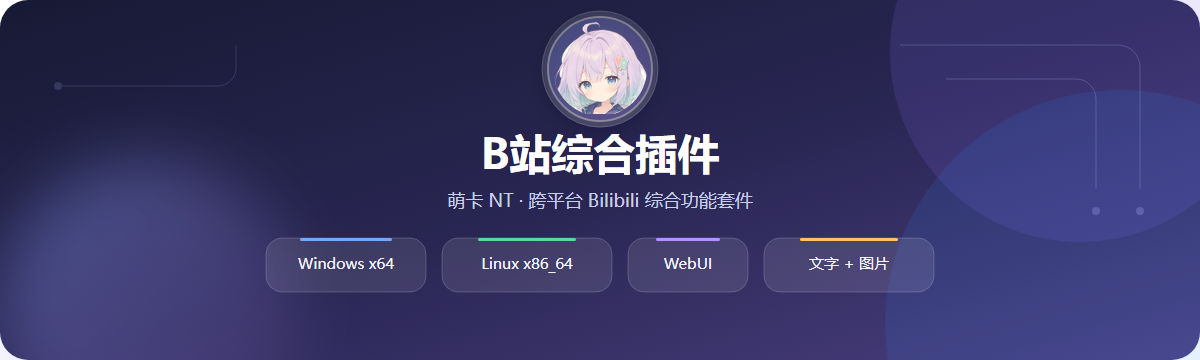
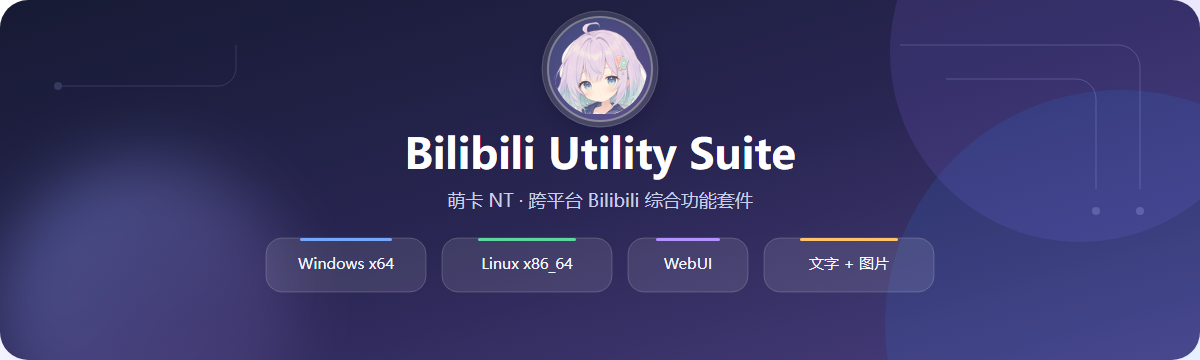
release: migrate Bilibili Utility Suite to GitHub 1.3.4

Changed region(s): [[0.3392, 0.3667, 0.6783, 0.5194]]

diff --git a/README.en.md b/README.en.md
@@ -1,21 +1,22 @@
 <div align="center">
-  <img src="bilibili-suite-cover.png" width="100%" alt="Bilibili Suite" />
+  <img src="bilibili-suite-cover.png" width="100%" alt="Bilibili Utility Suite" />
 
   <p>
-    <a href="https://gitee.com/carlor-official/BilibiliSuite/releases/latest"><img src="https://img.shields.io/badge/download-Gitee%20Releases-6C5CE7?style=flat-square" alt="Gitee Releases" /></a>
+    <a href="https://github.com/CarlorOfficial/Bilibili-Utility-Suite/releases/latest"><img src="https://img.shields.io/badge/download-GitHub%20Releases-6C5CE7?style=flat-square" alt="GitHub Releases" /></a>
     <img src="https://img.shields.io/badge/platform-Windows%20%7C%20Linux-2684FF?style=flat-square" alt="Windows and Linux" />
     <img src="https://img.shields.io/badge/architecture-x86__64-00A884?style=flat-square" alt="x86_64" />
   </p>
 
-  <p><strong>A cross-platform Bilibili feature suite for MoeCard NT</strong></p>
-  <p><a href="README.md">简体中文</a> · <a href="https://gitee.com/carlor-official/BilibiliSuite/releases/latest">Download</a> · <a href="https://gitee.com/carlor-official/BilibiliSuite/issues">Issues</a></p>
+  <p><strong>Bilibili Utility Suite</strong></p>
+  <p>A cross-platform Bilibili feature suite for MoeCard NT</p>
+  <p><a href="README.md">简体中文</a> · <a href="https://github.com/CarlorOfficial/Bilibili-Utility-Suite/releases/latest">Download</a> · <a href="https://github.com/CarlorOfficial/Bilibili-Utility-Suite/issues">Issues</a></p>
 </div>
 
 ---
 
 ## Overview
 
-Bilibili Suite connects to MoeCard NT through a forward WebSocket service and provides Bilibili queries, subscriptions, link parsing, notifications, and locally rendered image cards for group and private chats.
+Bilibili Utility Suite connects to MoeCard NT through a forward WebSocket service and provides Bilibili queries, subscriptions, link parsing, notifications, and locally rendered image cards for group and private chats.
 
 Windows and Linux share the same browser-based administration UI. The plugin sends plain text and image messages only and does not depend on Markdown support.
 
@@ -44,7 +45,7 @@ Windows and Linux packages are not interchangeable.
 
 ## Quick Start
 
-1. Download the package for your platform from [Gitee Releases](https://gitee.com/carlor-official/BilibiliSuite/releases/latest).
+1. Download the package for your platform from [GitHub Releases](https://github.com/CarlorOfficial/Bilibili-Utility-Suite/releases/latest).
 2. On Windows, extract the ZIP and run `BilibiliSuite.exe`. On Linux, extract the archive and run `sudo ./install.sh`.
 3. Complete the first-run WebUI port and management-token setup. The default port is `18080`.
 4. Open the displayed WebUI address and configure the MoeCard NT host, port, and framework token.
@@ -65,7 +66,7 @@ The WebUI provides 18 templates for live notifications and summaries, live event
 
 ## Signed Updates
 
-The WebUI checks the latest Gitee Release and offers an update only when the remote version is newer. Platform-specific packages and their `.sig` files are downloaded together and installed only after signature verification succeeds.
+The WebUI checks the latest GitHub Release and offers an update only when the remote version is newer. Platform-specific packages and their `.sig` files are downloaded together and installed only after signature verification succeeds.
 
 ## Security Notice
 
@@ -73,7 +74,7 @@ Release packages contain signed binaries, runtime libraries, and documentation o
 
 ## Support
 
-- Downloads and changelog: [Releases](https://gitee.com/carlor-official/BilibiliSuite/releases)
-- Bug reports and suggestions: [Issues](https://gitee.com/carlor-official/BilibiliSuite/issues)
+- Downloads and changelog: [Releases](https://github.com/CarlorOfficial/Bilibili-Utility-Suite/releases)
+- Bug reports and suggestions: [Issues](https://github.com/CarlorOfficial/Bilibili-Utility-Suite/issues)
 
 No open-source license is currently granted for the plugin's core implementation. Download official packages only from this repository's Releases page.

diff --git a/docs/release-notes/README.md b/docs/release-notes/README.md
@@ -1,11 +1,11 @@
-# B站综合插件发行说明规范
+# Bilibili Utility Suite（B站综合插件）发行说明规范
 
-后续 Gitee 发行版统一使用本目录中的 Markdown 结构。发行说明应直接描述用户可感知的变化，避免按 Windows、Linux 重复罗列完全相同的内容。
+后续 GitHub 发行版统一使用本目录中的 Markdown 结构。发行说明应直接描述用户可感知的变化，避免按 Windows、Linux 重复罗列完全相同的内容。
 
 ## 标准模板
 
 ```markdown
-# B站综合插件 X.Y.Z 更新日志
+# Bilibili Utility Suite（B站综合插件）X.Y.Z 更新日志
 
 发布日期：YYYY-MM-DD
 
@@ -24,10 +24,10 @@
 
 ## 编写规则
 
-- 一级标题固定为“B站综合插件 + 版本号 + 更新日志”。
+- 一级标题固定为“Bilibili Utility Suite（B站综合插件）+ 版本号 + 更新日志”。
 - 标题下方固定写发布日期，再用一段话概括本次更新重点。
 - 按功能主题使用二级标题，不在每一条前重复“新增”“修复”“优化”等方括号标签。
 - Windows 与 Linux 内容相同时合并描述；确有差异时再使用三级标题区分平台。
 - 公开发行说明只写用户可感知的新增、修复、优化和升级须知。
-- 自动测试、签名、外发包审计、文件哈希与其他内部验证仍需在发布前完成，但不写入 Gitee 更新日志。
+- 自动测试、签名、外发包审计、文件哈希与其他内部验证仍需在发布前完成，但不写入 GitHub 更新日志。
 - 不写未实现功能，不把推测写成已完成事项，不在发行说明中暴露令牌、私钥或其他敏感信息。

diff --git a/docs/release-notes/1.3.4.md b/docs/release-notes/1.3.4.md
@@ -1,0 +1,21 @@
+# Bilibili Utility Suite（B站综合插件）1.3.4 更新日志
+
+发布日期：2026-07-27
+
+## 品牌与发布渠道
+
+- 【调整】插件正式命名为 Bilibili Utility Suite（B站综合插件），统一 WebUI、运行状态及发行文档中的产品标识。
+- 【迁移】官方版本仓库与在线更新服务迁移至 GitHub Releases，后续版本将在 GitHub 统一发布。
+- 【兼容】保留现有安装目录、可执行文件及更新包命名，升级不会影响已有配置和业务数据。
+
+## 在线更新
+
+- 【优化】Windows 与 Linux 在线更新已适配 GitHub Releases，继续支持进度显示、断点续传与完整性校验。
+- 【优化】更新检查采用 GitHub 官方接口规范，提高版本信息获取和下载跳转的兼容性。
+- 【兼容】当前使用 Gitee 更新渠道的旧版本可直接升级至本版本；升级完成后将自动切换到新的更新渠道。
+
+## 升级说明
+
+- Windows 与 Linux 用户均可在 WebUI 中检查并安装更新。
+- 更新完成后请按页面提示重启插件，以加载新版本。
+- 如自动更新受当前网络环境影响，可前往 GitHub Releases 下载对应平台的发行包后覆盖升级。
